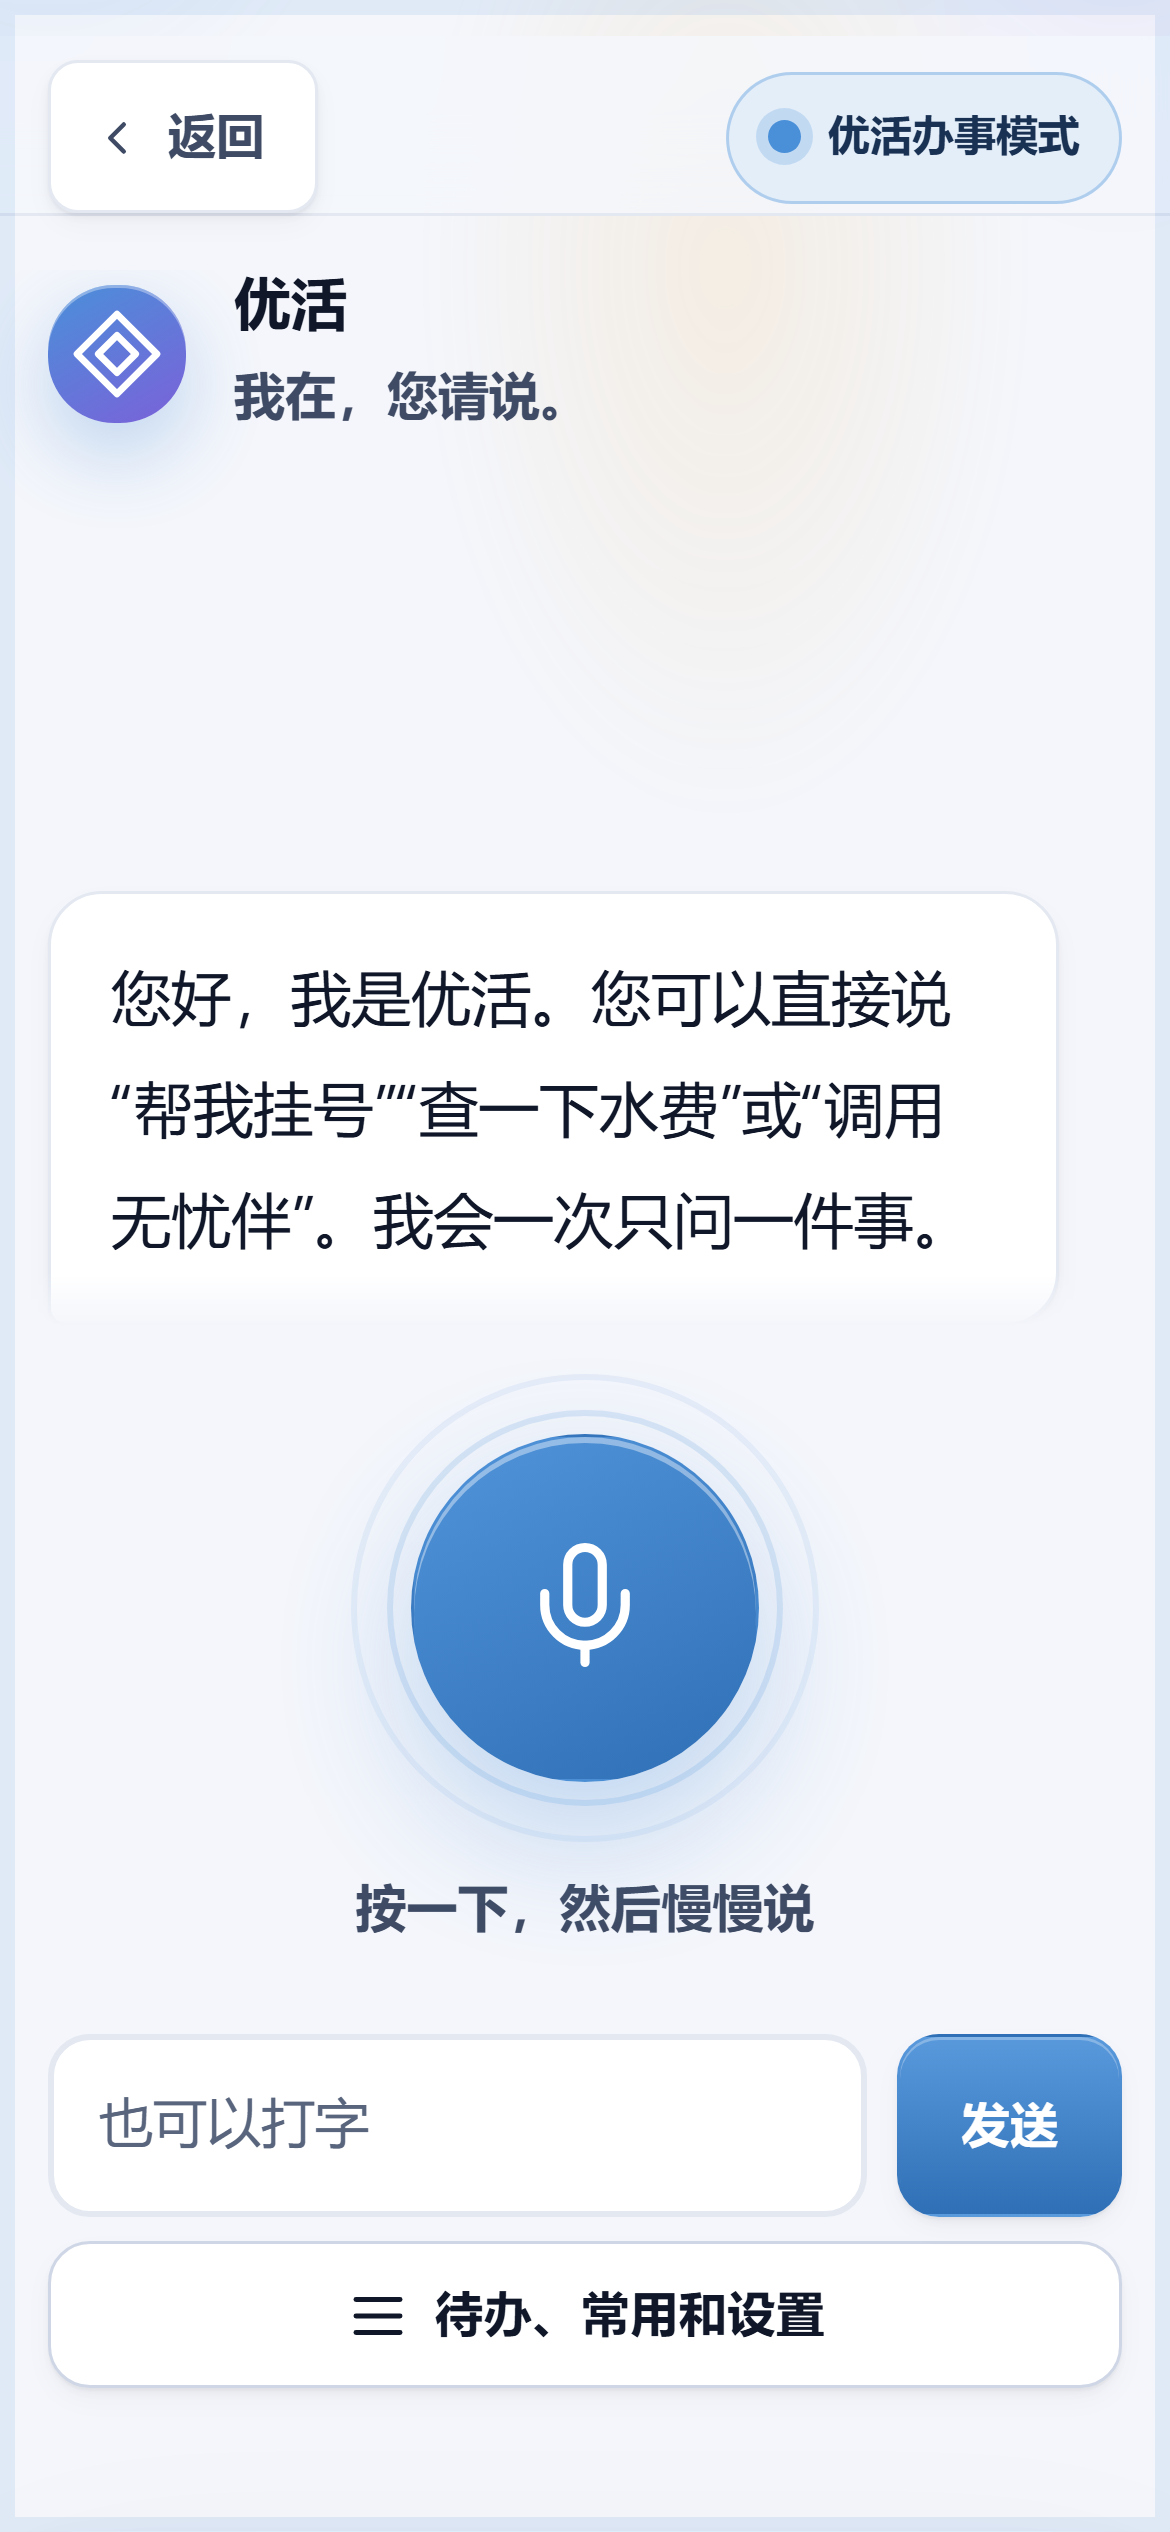
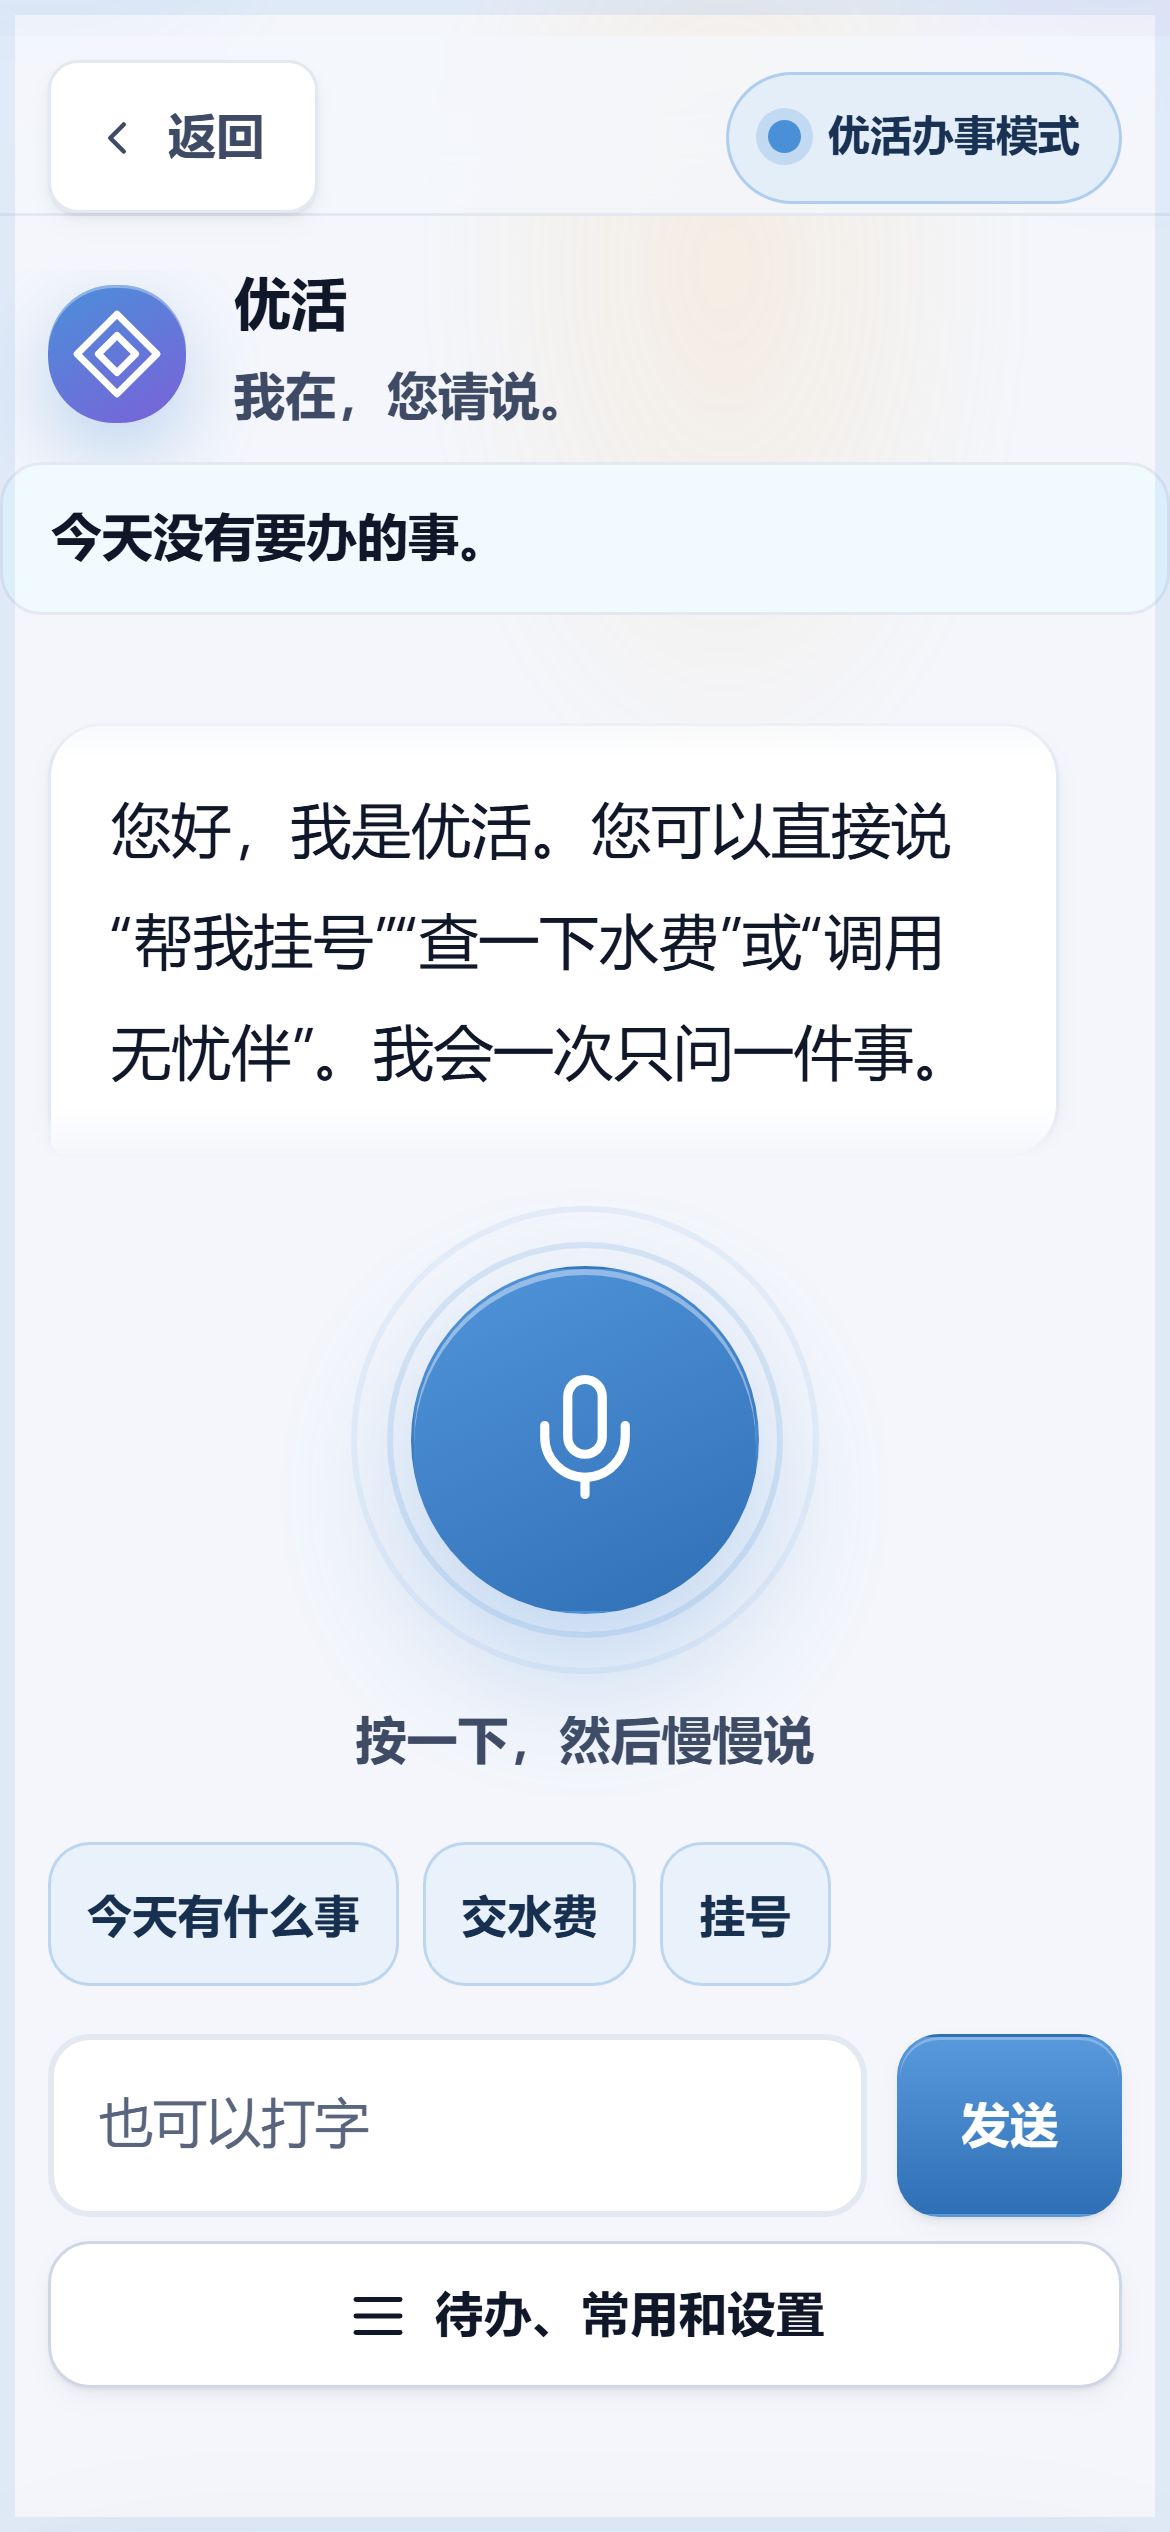
前端重构 R5：老人端首屏去掉演示脚手架，补上「今天」
elder.html:66-68 三个按钮的字面标签是「演示挂号」「演示缴费」「演示提醒」——演示
脚手架留在了产品首屏。而同一个文件下面抽屉里那四个反而是对的写法（「我今天吃药了
吗」），是老人真会说的话。改成后者：按钮上的字就是它替你说出口的那句话。

改的过程中发现，pages.css:587 早就把 .quick 在手机上整个 display:none 了，注释写着
"演示快捷方式是给评委的，不是给王奶奶的"。上一轮有人也认出它们是脚手架，但选择了
藏起来而不是改掉——所以只改标签在手机上零效果，而手机正是老人的设备。现在它们是
真话，取消隐藏并压紧排布。**没有**顺手把 min-height 降到 44px 去省一行：48px 是这个
项目自己的触控下限，为版面拿手抖的用户去换是划不来的。

补上首屏的「今天」那一行：今天有几件事、下一件是什么。这一屏此前不告诉老人这件事，
那句话藏在底部抽屉里、要点开才看得到，而它恰恰是她打开应用最先想知道的，所以排在
麦克风之前。只统计未完成的——已完成的算进去会让人白紧张一次。

新增四条测试：老人端与首页的按钮标签不得含"演示"；这两页不得出现工程术语
（Saga / N-best / OpenAPI / dry-run / 目的绑定 / 自主权包络 / 证明式完成 / C4-AI）；
首屏必须有「今天」那一行，且必须真的有人去填它。

939 passed。page_runtime 从 41 个控件增加到 44 个——那三个按钮现在在手机上真的可点。
一屏仍放得下，test_no_page_clips_its_own_content_at_390x844 通过。对比度 12/12。

Changed region(s): [[0.0615, 0.312, 0.8308, 0.78], [0.0308, 0.1872, 0.4, 0.2184]]

diff --git a/backend/static/pages.css b/backend/static/pages.css
@@ -89,6 +89,28 @@
   text-decoration: none;
 }
 .landing-demo a:hover { color: var(--ink-2); text-decoration: underline; }
+
+/* --------------------------------------------------------------------------
+   老人端首屏的「今天」
+   ..........................................................................
+   这一屏此前不告诉老人今天有什么事——那句话藏在底部抽屉里，要点开才看得到。而
+   "今天有几件事、下一件是什么"恰恰是她打开这个应用最先想知道的，所以它排在麦克风
+   之前。不做成卡片：它是一行字，加个盒子只会让它和别的东西争权重。
+   字号跟着 --elder-font-scale 走，与对话气泡同一套机制。
+   -------------------------------------------------------------------------- */
+
+.today-line {
+  margin: 0 0 var(--space-3);
+  padding: var(--space-3) var(--space-4);
+  border-radius: var(--r-md);
+  background: var(--surface-2);
+  border: 1px solid var(--line);
+  font-size: calc(17px * var(--elder-font-scale) / 1.25);
+  line-height: var(--lh-snug);
+  color: var(--ink);
+  font-weight: 650;
+}
+
 /* --------------------------------------------------------------------------
    Judge walkthrough
    -------------------------------------------------------------------------- */
@@ -560,9 +582,17 @@
   .role-halo::before, .role-halo::after { animation: none !important; }
   body[data-activity="listening"] .role-halo { opacity: .7; }
 
-  /* The demo shortcuts are for a judge, not for 王奶奶; on a phone they cost a
-     row of prime real estate directly under the microphone. */
-  .quick { display: none; }
+  /* 这一行以前在手机上是 `display: none`，注释写着"演示快捷方式是给评委的，不是给
+     王奶奶的"。那个判断在当时是对的——三个按钮的标签是「演示挂号」「演示缴费」
+     「演示提醒」，确实是脚手架，藏起来比留着强。
+     但正确的做法是改掉它们而不是藏起来：现在按钮上的字就是它替你说出口的那句话
+     （「今天有什么事」「交水费」「挂号」）。对一位不知道该怎么开口的老人，这三个
+     词恰恰是这一屏最有用的东西——而"不知道说什么"正是语音产品最常见的卡点。
+     所以显示，只是把它压得更紧、并放在麦克风**下方**，不与主控件争视觉权重。 */
+  .quick { margin-top: var(--space-2); gap: var(--space-2); }
+  /* 只压水平内边距，不动 min-height——48px 是这个项目自己的触控下限，为了省一行
+     把它降到 44 就是拿手抖的用户换版面。 */
+  .quick button { padding-inline: var(--space-3); font-size: 15px; }
 
   /* ----------------------------------------------------------------------
      短屏。iPhone SE 是 667px 高，比 iPhone 14 少 177px——而固定家具（角色头 +

diff --git a/backend/static/elder.html b/backend/static/elder.html
@@ -49,6 +49,11 @@
           </div>
         </div>
 
+        <!-- 今天。首屏此前没有这一行——老人打开应用看不到"今天有什么事"，得先点开
+             底部抽屉才知道。这是这一屏最该有的一句话，所以它在麦克风之前。
+             由 elder.js 的 loadReminders() 填，没有待办时整行隐藏。 -->
+        <p id="todayLine" class="today-line" hidden></p>
+
         <div id="chat" class="chat" aria-live="polite"></div>
         <div id="relianceHost"></div>
 
@@ -62,10 +67,14 @@
         </div>
 
         <div class="composer">
-          <div class="quick">
-            <button data-text="帮我挂明天下午两点第一医院骨科王医生的号">演示挂号</button>
-            <button data-text="帮我交水费">演示缴费</button>
-            <button data-text="提醒我明天上午九点复诊">演示提醒</button>
+          <!-- 这三个按钮此前的标签是「演示挂号」「演示缴费」「演示提醒」——演示脚手架
+               留在了产品首屏上。而同一个文件下面抽屉里那四个反而是对的写法（「我今天
+               吃药了吗」），是老人真会说的话。
+               统一成后者：按钮上的字就是它替你说出口的那句话，按下去等于开口。 -->
+          <div class="quick" aria-label="常说的话">
+            <button data-text="我今天有什么事">今天有什么事</button>
+            <button data-text="帮我交水费">交水费</button>
+            <button data-text="帮我挂个号">挂号</button>
           </div>
           <div class="controls">
             <!-- 短。原来是「也可以打字：帮我挂明天下午的骨科号」，在 390px 宽的屏幕上

diff --git a/backend/static/elder.js b/backend/static/elder.js
@@ -498,10 +498,35 @@ function rankReminders(reminders) {
   return showAllReminders ? openFirst : openFirst.slice(0, 3);
 }
 
+/** 首屏那一行「今天」。
+ *
+ * 这一屏此前不告诉老人今天有什么事——那句话藏在底部抽屉里，要点开才看得到。而
+ * "今天有几件事、下一件是什么"恰恰是她打开这个应用最先想知道的东西，所以它排在
+ * 麦克风之前。
+ *
+ * 只说未完成的。已完成的待办出现在"今天还有 3 件事"里，会让人白紧张一次。
+ */
+function renderTodayLine(reminders) {
+  const line = document.getElementById('todayLine');
+  if (!line) return;
+  const open = reminders
+    .filter(r => !['completed', 'cancelled'].includes(r.status))
+    .sort((a, b) => new Date(a.due_at) - new Date(b.due_at));
+  if (!open.length) {
+    line.textContent = '今天没有要办的事。';
+    line.hidden = false;
+    return;
+  }
+  const next = open[0];
+  line.textContent = `今天有 ${open.length} 件事 · 下一件 ${friendlyTime(next.due_at)} ${next.title}`;
+  line.hidden = false;
+}
+
 async function loadReminders() {
   if (!remindersEl) return;
   try {
     const reminders = await api('/v2/reminders?limit=50');
+    renderTodayLine(reminders);
     remindersEl.replaceChildren();
     const visible = rankReminders(reminders);
     visible.forEach(r => {

diff --git a/backend/tests/test_pwa_shell.py b/backend/tests/test_pwa_shell.py
@@ -238,6 +238,55 @@ def test_no_declaration_was_lost_in_the_split():
     assert "@media (max-width: 760px)" in css, "响应式那一大段不见了"
 
 
+#: 老人端与家属端是真实产品，不是工程演示。这些词不得出现在它们的可见文本里。
+#:
+#: 老人不需要知道什么是 Saga、什么是目的绑定策略，也不该在首屏看到「演示挂号」。
+#: 这些概念属于 /trust 和 /judge——那是另一个世界，给要求看清边界的人看的。
+_ENGINEERING_WORDS = [
+    "Saga", "N-best", "OpenAPI", "dry-run", "dry run",
+    "目的绑定", "自主权包络", "证明式完成", "C4-AI",
+]
+
+
+@pytest.mark.parametrize("page", ["index.html", "elder.html"])
+def test_no_demo_scaffolding_on_the_consumer_first_screen(page):
+    """按钮上的字必须是用户想做的事，不是"这是一个演示"。
+
+    `elder.html` 曾在首屏放三个按钮，标签的字面就是「演示挂号」「演示缴费」
+    「演示提醒」——演示脚手架留在了产品里。而同一个文件下面抽屉里那四个反而是对的
+    写法（「我今天吃药了吗」），是老人真会说的话。两种做法在同一页并存，说明前者是
+    没清理干净的东西。
+    """
+    source = (STATIC / page).read_text(encoding="utf-8")
+    source = re.sub(r"<!--.*?-->", "", source, flags=re.S)      # 注释里会引用旧标签
+    labels = re.findall(r"<button[^>]*>(.*?)</button>", source, re.S)
+    offenders = [
+        re.sub(r"<[^>]+>", "", label).strip()
+        for label in labels
+        if "演示" in re.sub(r"<[^>]+>", "", label)
+    ]
+    assert not offenders, f"{page} 的按钮上还有演示脚手架：{offenders}"
+
+
+@pytest.mark.parametrize("page", ["index.html", "elder.html"])
+def test_no_engineering_vocabulary_in_the_consumer_pages(page):
+    source = (STATIC / page).read_text(encoding="utf-8")
+    source = re.sub(r"<!--.*?-->", "", source, flags=re.S)
+    found = [word for word in _ENGINEERING_WORDS if word in source]
+    assert not found, f"{page} 出现了工程术语：{found}"
+
+
+def test_the_elder_first_screen_says_what_today_holds():
+    """老人打开这一屏，第一件想知道的事是"今天有什么事"。
+
+    此前那句话藏在底部抽屉里，要点开才看得到。
+    """
+    source = (STATIC / "elder.html").read_text(encoding="utf-8")
+    assert 'id="todayLine"' in source, "首屏没有「今天」那一行"
+    js = (STATIC / "elder.js").read_text(encoding="utf-8")
+    assert "renderTodayLine" in js, "没有人去填它"
+
+
 def test_service_worker_bails_out_before_responding():
     source = (STATIC / "sw.js").read_text(encoding="utf-8")
     # 直接放行，而不是先缓存再过滤。
